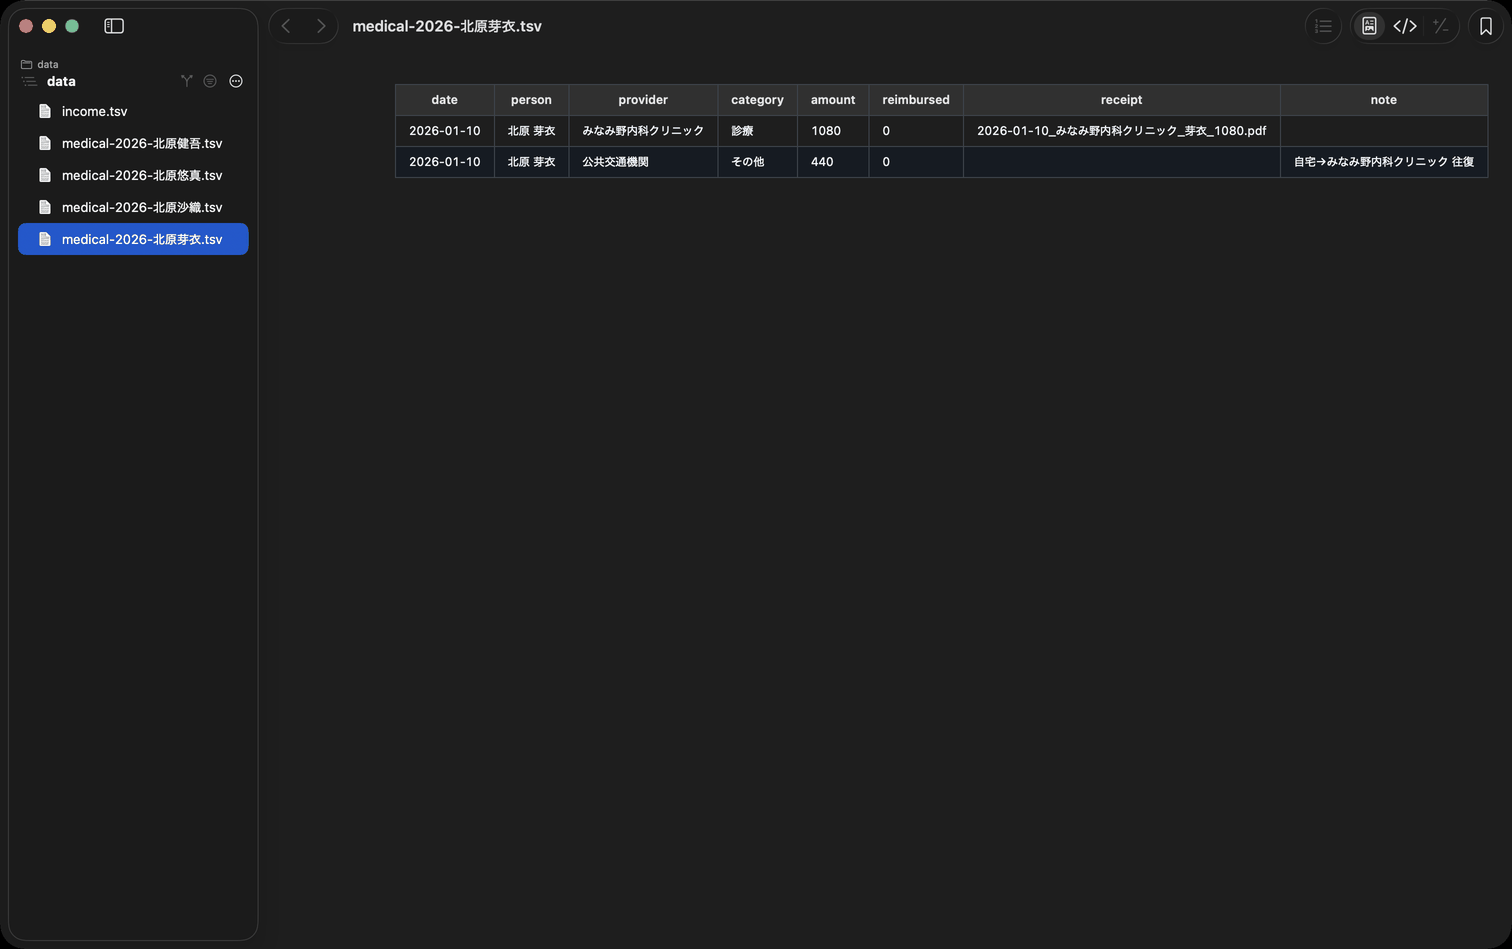
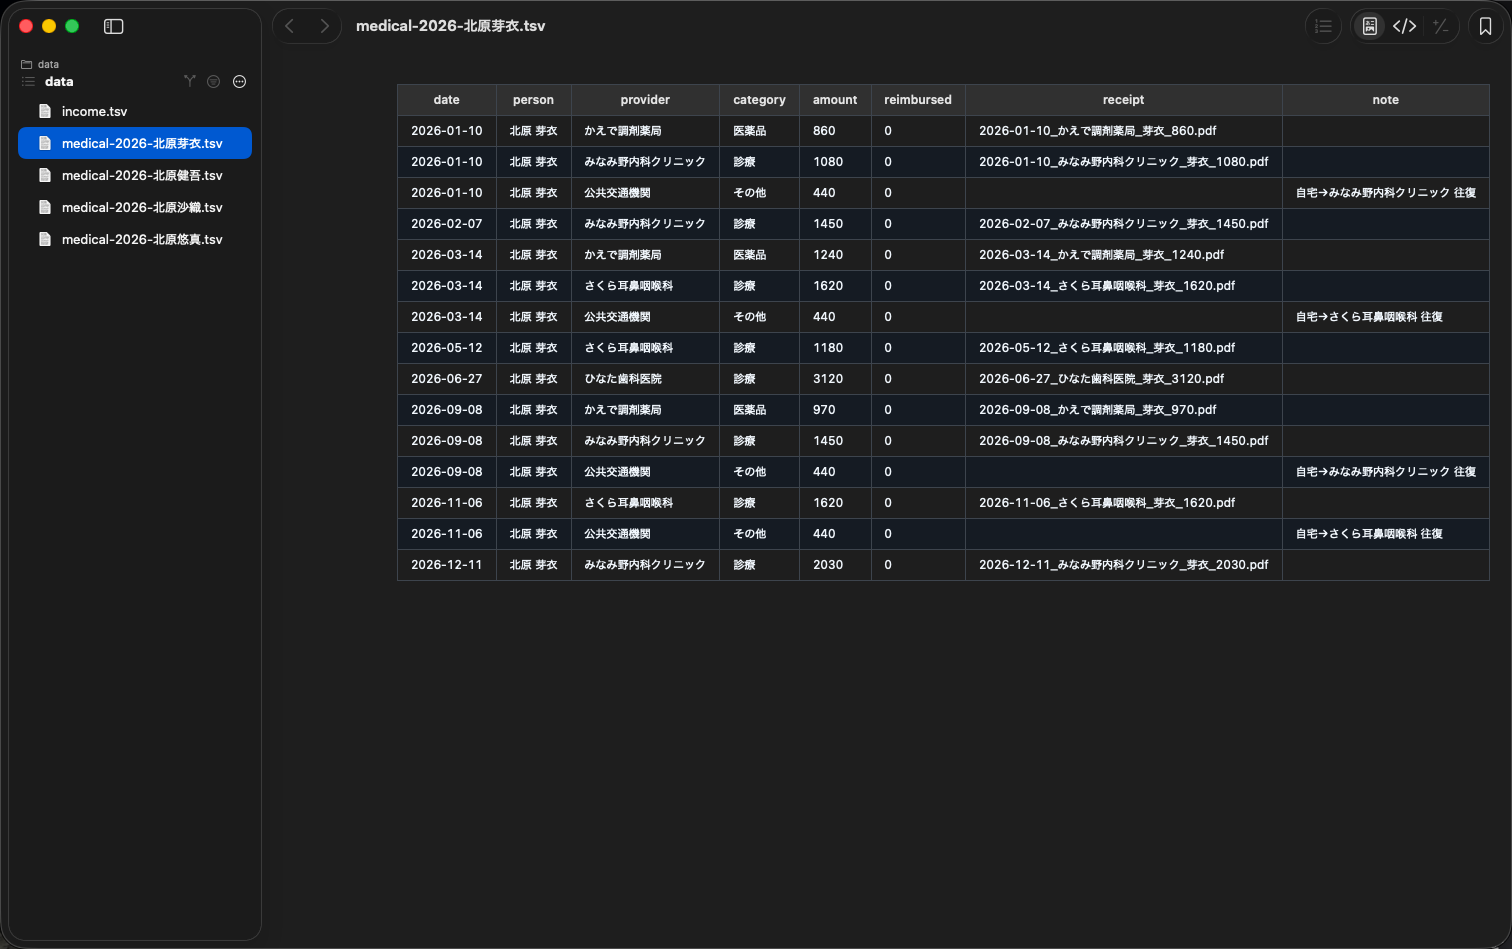
chore: 医療費控除の記事の依頼文と集計表スクショを直す (#592)
Claude への依頼文の例を「新しいファイルがあったら、取り込んで!」から
「Inbox をチェックして!」へ。英語版の同じ一文も合わせる。

集計表のスクリーンショットが 2 行しか無く運用が回っている様子が伝わらない
ため、サンプル生成スクリプトのスキャンを 4 件 → 22 件、通院交通費を
1 件 → 4 件に増やして撮り直す。

Claude-Session: https://claude.ai/code/session_01H2Ss2xhdtFw9ZpHNyP9TxM

diff --git a/scripts/make-medical-sample.py b/scripts/make-medical-sample.py
@@ -38,63 +38,60 @@ FAMILY = ["北原 健吾", "北原 沙織", "北原 悠真", "北原 芽衣"]
 
 # スキャン 1 ファイルぶん。pages が 2 つあるものは「領収証 + 明細書」を
 # 1 ファイルにまとめて撮った場合を表す（pypdf の分割を通すため必ず 1 件入れる）。
+#
+# 件数は「1 年ぶんの家計」に見える程度に用意してある（記事のスクリーンショットで
+# 集計表が 2 行しか無いと、運用が回っている様子が伝わらないため）。子ども 2 人の
+# 通院が多く、親は年に数回という、よくある偏り方にしてある。
+
+
+def receipt(date: str, amount: int, kind: str, extra: list[tuple[str, str]] | None = None,
+            title: str = "領 収 証") -> dict:
+    """領収書 1 ページぶんの記載内容。日付と金額は行側の値をそのまま使う。"""
+    y, m, d = date.split("-")
+    label = "調剤日" if title.startswith("調") or kind.startswith("調剤") else "受診日"
+    return {"title": title,
+            "lines": [(label, f"{int(y)}年{int(m)}月{int(d)}日"),
+                      ("領収金額", f"¥{amount:,}"),
+                      ("内訳", kind), *(extra or [])]}
+
+
+def scan(date: str, time: str, person: str, provider: str, category: str,
+         amount: int, kind: str, pages: list[dict] | None = None) -> dict:
+    return {"file": f"スキャン {date} {time}.pdf", "date": date, "person": person,
+            "provider": provider, "category": category, "amount": amount,
+            "pages": pages or [receipt(date, amount, kind)]}
+
+
 SCANS = [
-    {
-        "file": "スキャン 2026-01-10 09.12.pdf",
-        "date": "2026-01-10",
-        "person": "北原 芽衣",
-        "provider": "みなみ野内科クリニック",
-        "category": "診療",
-        "amount": 1080,
-        "pages": [
-            {"title": "領 収 証", "lines": [("受診日", "2026年1月10日"),
-                                            ("領収金額", "¥1,080"),
-                                            ("内訳", "初診料・投薬"),
-                                            ("負担割合", "3割")]},
-        ],
-    },
-    {
-        "file": "スキャン 2026-02-03 20.41.pdf",
-        "date": "2026-02-03",
-        "person": "北原 沙織",
-        "provider": "かえで調剤薬局",
-        "category": "医薬品",
-        "amount": 3200,
-        "pages": [
-            {"title": "領 収 証", "lines": [("調剤日", "2026年2月3日"),
-                                            ("領収金額", "¥3,200"),
-                                            ("内訳", "調剤技術料・薬剤料")]},
-            {"title": "調 剤 明 細 書", "lines": [("調剤日", "2026年2月3日"),
-                                                  ("薬剤名", "（架空の薬剤）錠 14日分"),
-                                                  ("合計点数", "320点")]},
-        ],
-    },
-    {
-        "file": "スキャン 2026-02-18 18.05.pdf",
-        "date": "2026-02-18",
-        "person": "北原 悠真",
-        "provider": "ひなた歯科医院",
-        "category": "診療",
-        "amount": 4530,
-        "pages": [
-            {"title": "領 収 証", "lines": [("受診日", "2026年2月18日"),
-                                            ("領収金額", "¥4,530"),
-                                            ("内訳", "処置・歯科診療")]},
-        ],
-    },
-    {
-        "file": "スキャン 2026-03-05 11.27.pdf",
-        "date": "2026-03-05",
-        "person": "北原 健吾",
-        "provider": "みなみ野内科クリニック",
-        "category": "診療",
-        "amount": 2150,
-        "pages": [
-            {"title": "領 収 証", "lines": [("受診日", "2026年3月5日"),
-                                            ("領収金額", "¥2,150"),
-                                            ("内訳", "再診料・検査")]},
-        ],
-    },
+    scan("2026-01-10", "09.12", "北原 芽衣", "みなみ野内科クリニック", "診療", 1080,
+         "初診料・投薬", [receipt("2026-01-10", 1080, "初診料・投薬",
+                                 [("負担割合", "3割")])]),
+    scan("2026-01-10", "09.40", "北原 芽衣", "かえで調剤薬局", "医薬品", 860, "調剤技術料・薬剤料"),
+    scan("2026-01-24", "10.05", "北原 悠真", "ひなた歯科医院", "診療", 2380, "検査・歯石除去"),
+    scan("2026-02-03", "20.41", "北原 沙織", "かえで調剤薬局", "医薬品", 3200, "調剤技術料・薬剤料",
+         [receipt("2026-02-03", 3200, "調剤技術料・薬剤料"),
+          {"title": "調 剤 明 細 書",
+           "lines": [("調剤日", "2026年2月3日"),
+                     ("薬剤名", "（架空の薬剤）錠 14日分"),
+                     ("合計点数", "320点")]}]),
+    scan("2026-02-07", "18.22", "北原 芽衣", "みなみ野内科クリニック", "診療", 1450, "再診料・検査"),
+    scan("2026-02-18", "18.05", "北原 悠真", "ひなた歯科医院", "診療", 4530, "処置・歯科診療"),
+    scan("2026-03-05", "11.27", "北原 健吾", "みなみ野内科クリニック", "診療", 2150, "再診料・検査"),
+    scan("2026-03-14", "16.48", "北原 芽衣", "さくら耳鼻咽喉科", "診療", 1620, "初診料・処置"),
+    scan("2026-03-14", "17.10", "北原 芽衣", "かえで調剤薬局", "医薬品", 1240, "調剤技術料・薬剤料"),
+    scan("2026-04-02", "09.55", "北原 悠真", "みなみ野内科クリニック", "診療", 1330, "再診料・投薬"),
+    scan("2026-04-21", "19.03", "北原 沙織", "はるかぜ眼科", "診療", 2760, "検査・処置"),
+    scan("2026-05-12", "10.31", "北原 芽衣", "さくら耳鼻咽喉科", "診療", 1180, "再診料・処置"),
+    scan("2026-06-09", "14.17", "北原 健吾", "けやき整形外科", "診療", 5040, "検査・リハビリ"),
+    scan("2026-06-27", "11.02", "北原 芽衣", "ひなた歯科医院", "診療", 3120, "処置・歯科診療"),
+    scan("2026-07-15", "09.48", "北原 悠真", "みなみ野内科クリニック", "診療", 1080, "再診料・投薬"),
+    scan("2026-08-04", "20.12", "北原 沙織", "かえで調剤薬局", "医薬品", 2480, "調剤技術料・薬剤料"),
+    scan("2026-09-08", "10.44", "北原 芽衣", "みなみ野内科クリニック", "診療", 1450, "再診料・検査"),
+    scan("2026-09-08", "11.15", "北原 芽衣", "かえで調剤薬局", "医薬品", 970, "調剤技術料・薬剤料"),
+    scan("2026-10-19", "15.36", "北原 健吾", "けやき整形外科", "診療", 2210, "再診料・リハビリ"),
+    scan("2026-11-06", "17.51", "北原 芽衣", "さくら耳鼻咽喉科", "診療", 1620, "再診料・処置"),
+    scan("2026-11-24", "09.29", "北原 悠真", "ひなた歯科医院", "診療", 1870, "再診料・処置"),
+    scan("2026-12-11", "18.40", "北原 芽衣", "みなみ野内科クリニック", "診療", 2030, "再診料・投薬・検査"),
 ]
 
 MEDICAL_HEADER = ["date", "person", "provider", "category",
@@ -190,9 +187,13 @@ def main() -> None:
 
     # 通院交通費（領収書が無い行）も 1 件入れる。receipt 列が空の見た目を
     # スクリーンショットに残しておきたいため。
-    rows["北原芽衣"].append(
-        ["2026-01-10", "北原 芽衣", "公共交通機関", "その他", "440", "0", "",
-         "自宅→みなみ野内科クリニック 往復"])
+    for date, provider in [("2026-01-10", "みなみ野内科クリニック"),
+                           ("2026-03-14", "さくら耳鼻咽喉科"),
+                           ("2026-09-08", "みなみ野内科クリニック"),
+                           ("2026-11-06", "さくら耳鼻咽喉科")]:
+        rows["北原芽衣"].append(
+            [date, "北原 芽衣", "公共交通機関", "その他", "440", "0", "",
+             f"自宅→{provider} 往復"])
 
     data = root / "data"
     data.mkdir()

diff --git a/site/content/medical-expenses.en.md b/site/content/medical-expenses.en.md
@@ -12,7 +12,7 @@ Create a “医療費” folder with an “Inbox” inside it on iCloud Drive an
 
 ### Then you ask Claude for this
 
-> If there are new files, take them in!
+> Check the Inbox!
 
 Claude does the following.
 

diff --git a/site/content/medical-expenses.ja.md b/site/content/medical-expenses.ja.md
@@ -12,7 +12,7 @@
 
 ### そして Claude に、こう頼む
 
-> 新しいファイルがあったら、取り込んで!
+> Inbox をチェックして!
 
 Claude が、次の作業をやってくれます。
 
